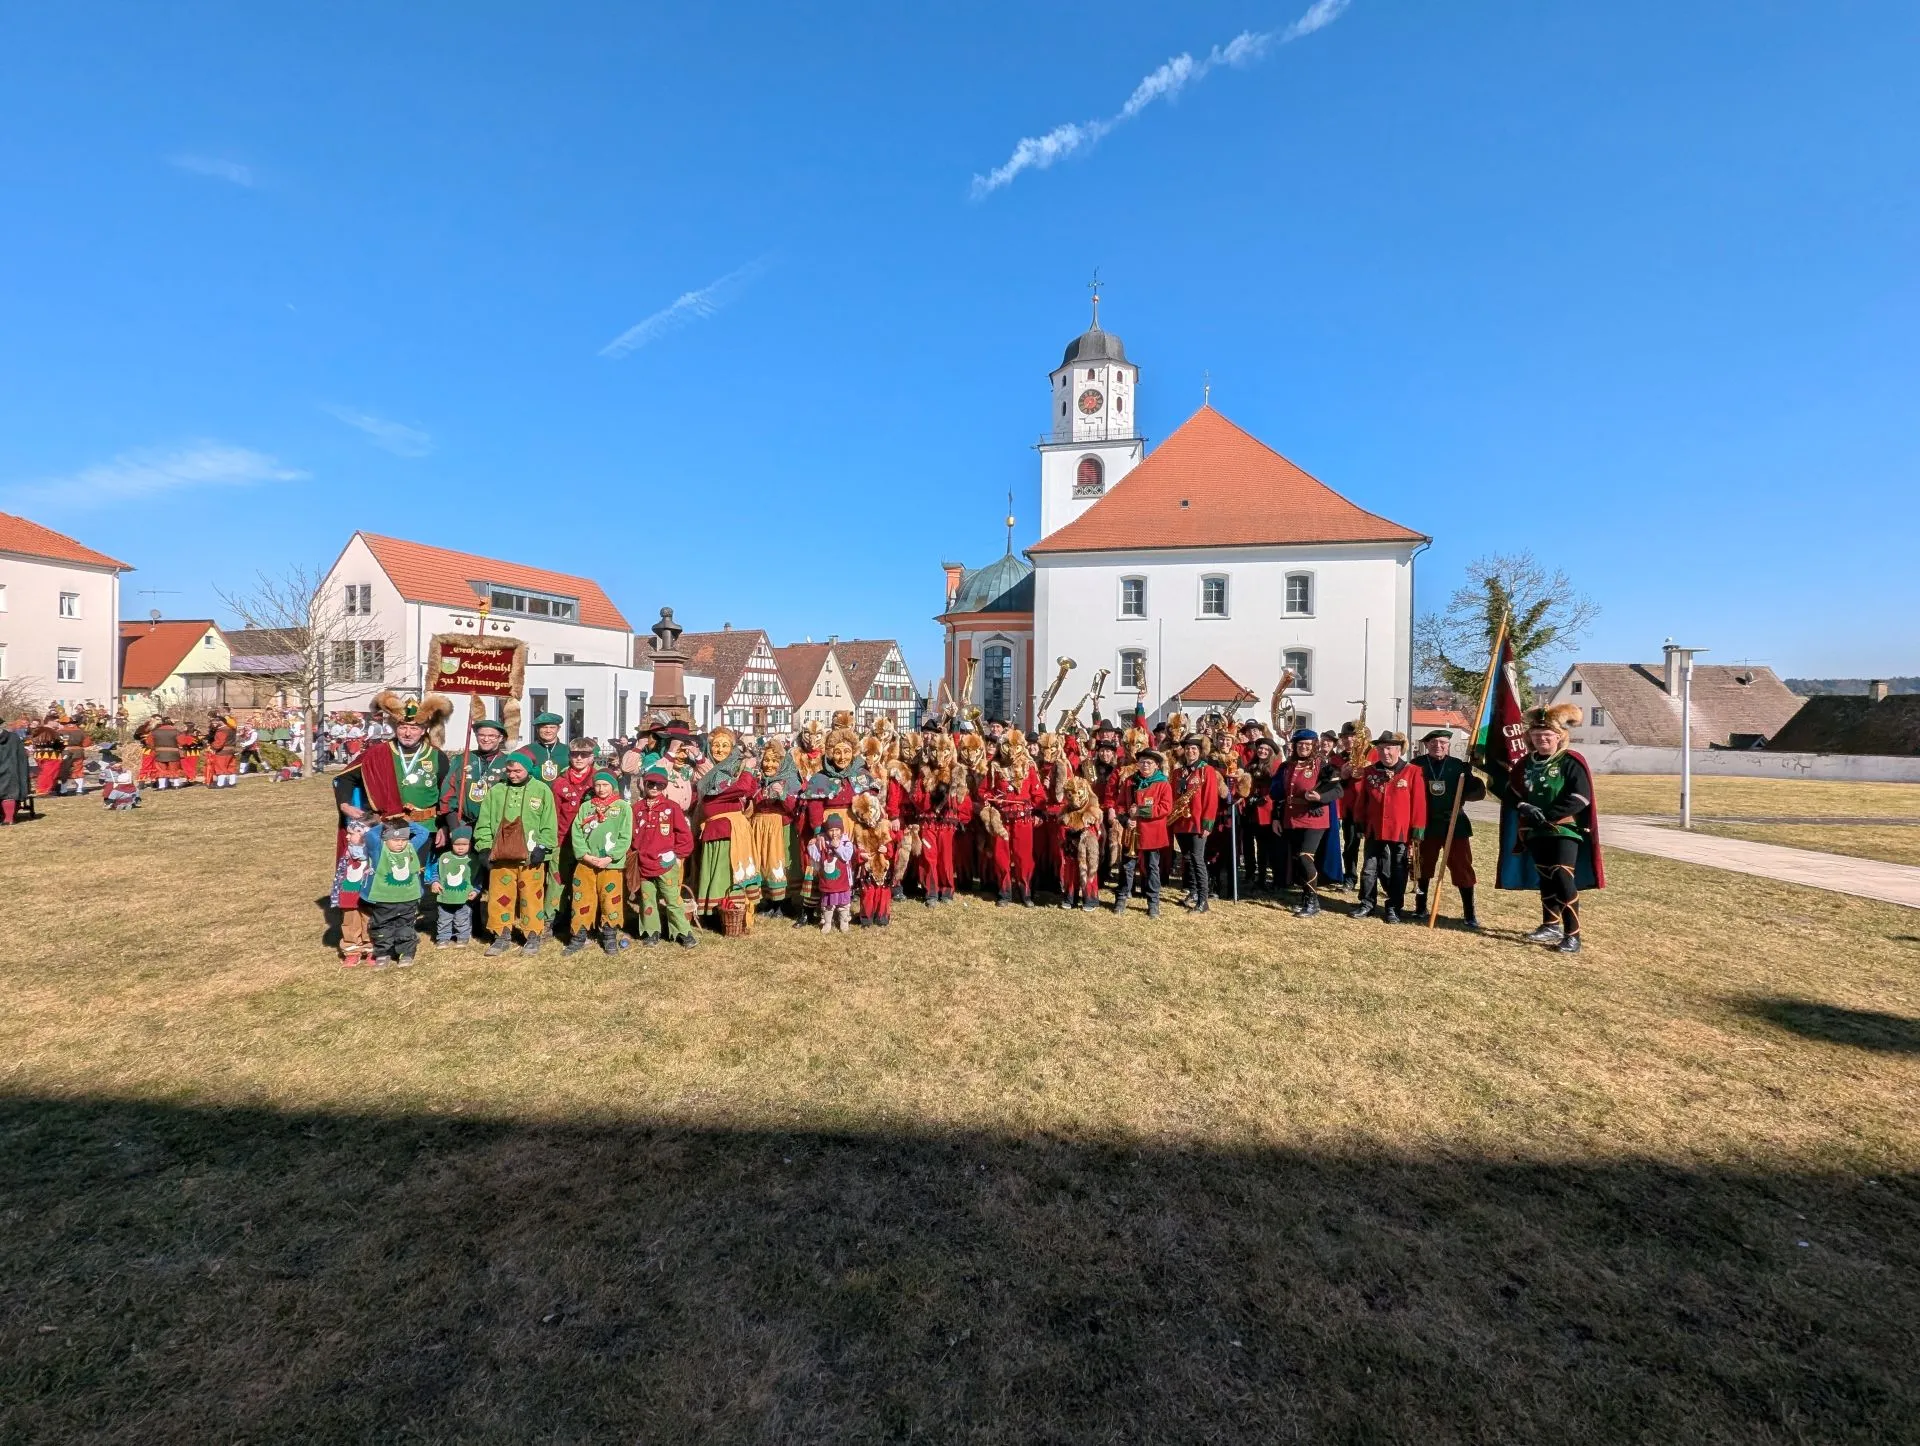
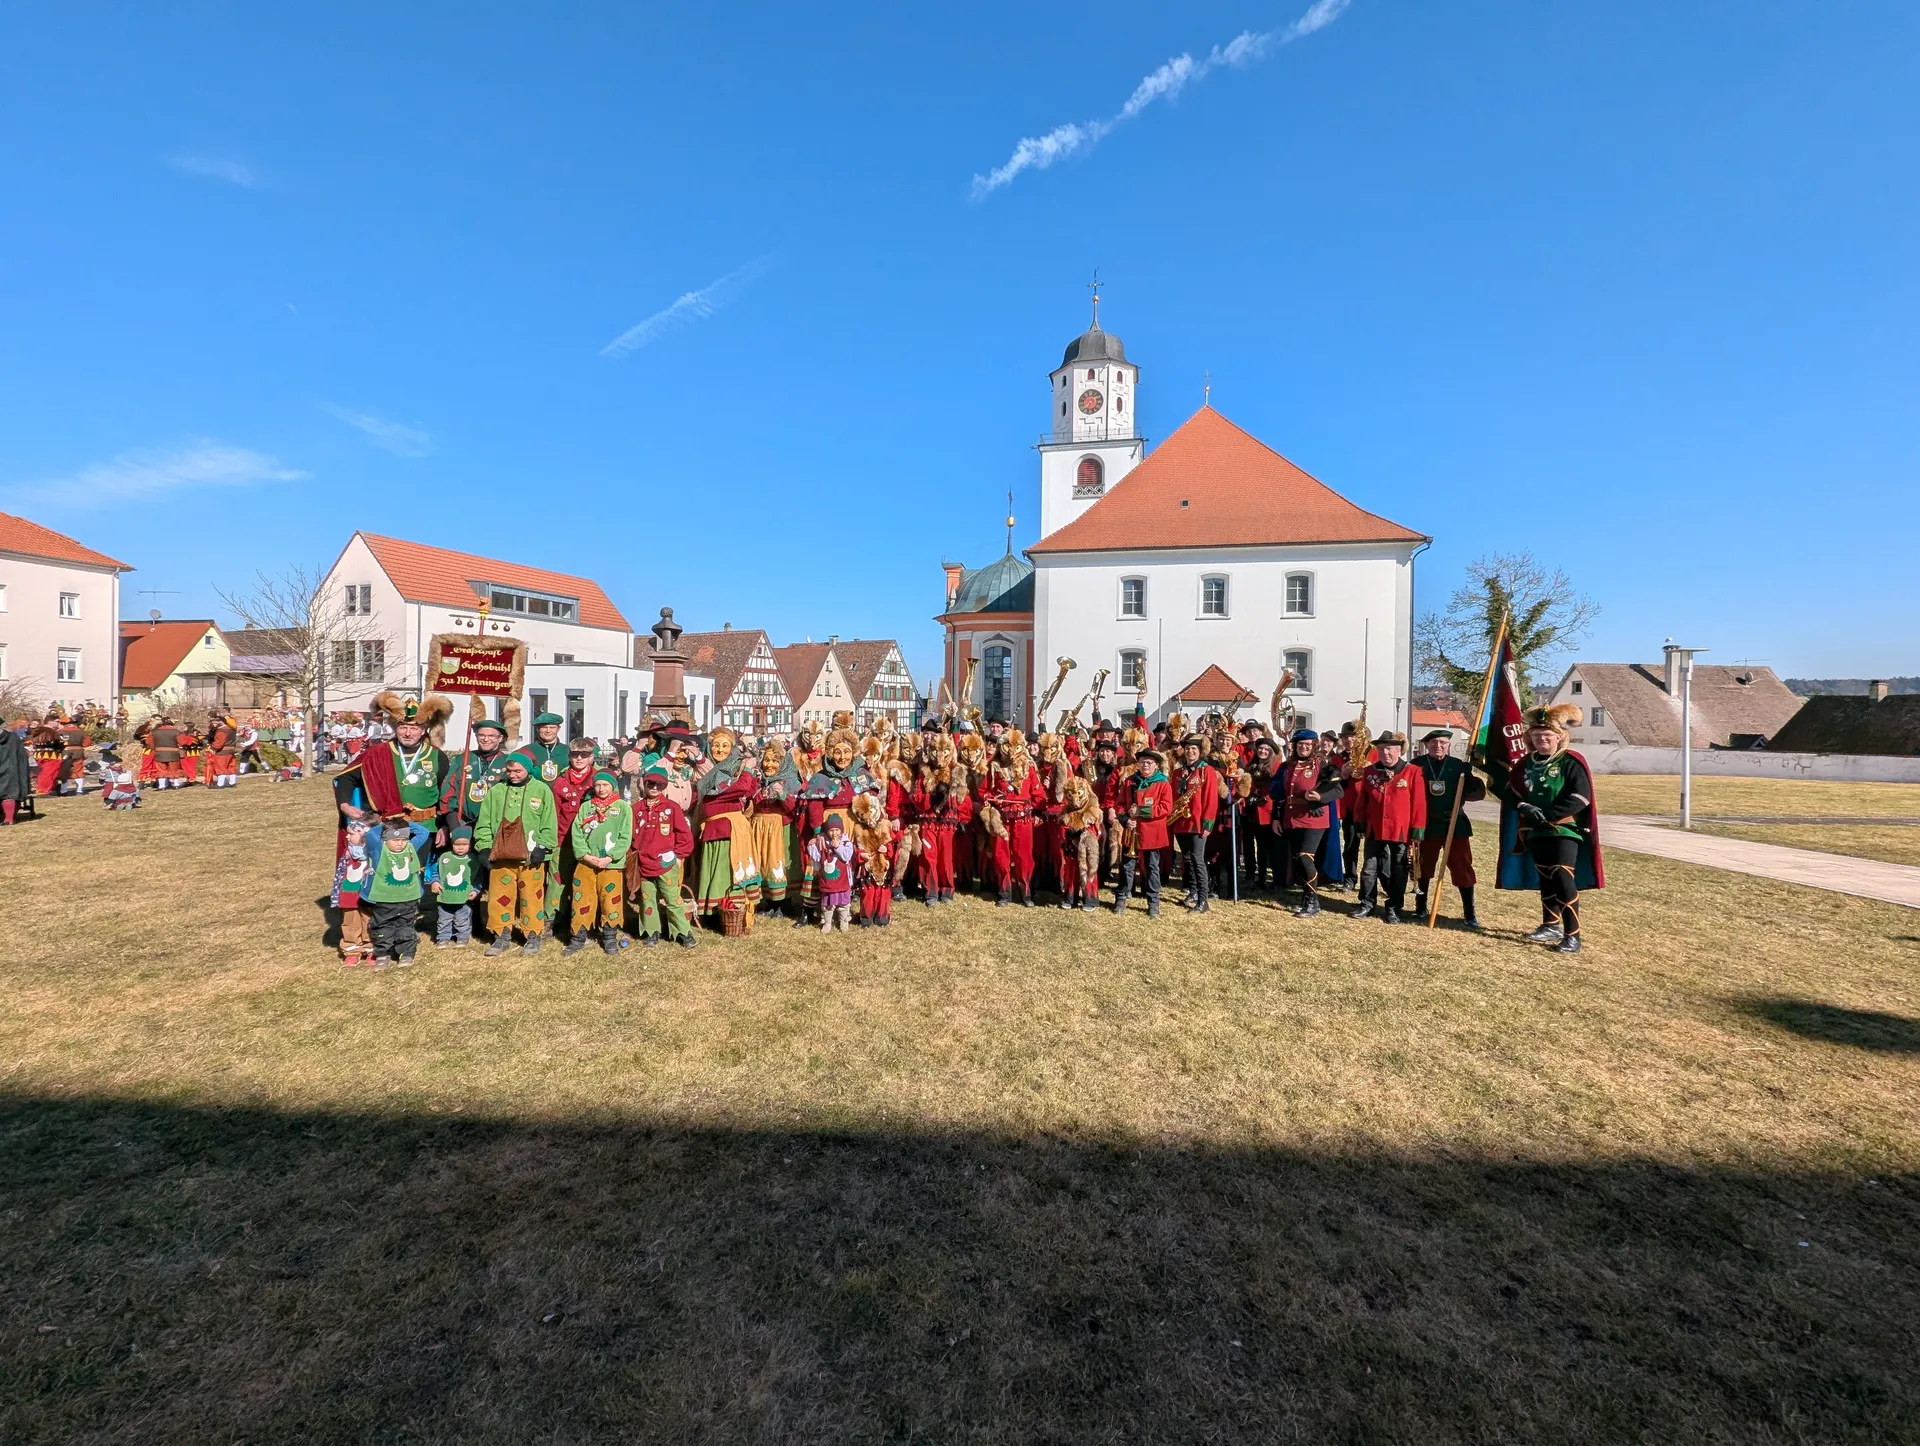
feat: add new WebP assets for improved performance and update image references in components

diff --git a/src/sections/HomeSection.jsx b/src/sections/HomeSection.jsx
@@ -3,6 +3,7 @@ import { FileText, Calendar, Users, ChevronRight, Award, Shield, Bell, MapPin } 
 import Countdown from '../components/Countdown';
 import { termine } from '../data/termineData';
 import heroBg from '../assets/Gesamt.webp';
+import heroMobile from '../assets/Gesamt-mobile.webp';
 
 const HomeSection = ({ setActiveTab }) => {
   // Prüfen, ob heute ein Termin ist
@@ -24,6 +25,8 @@ const HomeSection = ({ setActiveTab }) => {
       {/* Hintergrundbild - Als Image Tag für besseres LCP/Preloading */}
       <img
         src={heroBg}
+        srcSet={`${heroMobile} 800w, ${heroBg} 1920w`}
+        sizes="(max-width: 768px) 100vw, 100vw"
         alt="Zunftrat der Fuchszunft Menningen"
         fetchPriority="high"
         loading="eager"
@@ -127,7 +130,7 @@ const HomeSection = ({ setActiveTab }) => {
                 {/* Kulturerbe */}
                 <div className="flex flex-col-reverse md:flex-row items-center gap-6 max-w-2xl text-center md:text-left">
                     <a href="https://www.unesco.de/staette/schwaebisch-alemannische-fastnacht/" target="_blank" rel="noopener noreferrer" className="block w-72 md:w-80 lg:w-96 hover:opacity-80 transition-opacity flex-shrink-0" title="Zum UNESCO-Eintrag">
-                        <img src="/kulturerbe-logo.png" alt="Immaterielles Kulturerbe - Schwäbisch-Alemannische Fasnet" className="w-full h-auto object-contain rounded-xl" />
+                        <img src="/kulturerbe-logo.webp" alt="Immaterielles Kulturerbe - Schwäbisch-Alemannische Fasnet" className="w-full h-auto object-contain rounded-xl" />
                     </a>
                     <div>
                         <h3 className="font-bold text-stone-100 uppercase text-xs tracking-wider mb-1">Immaterielles Kulturerbe</h3>

diff --git a/src/components/Navigation.jsx b/src/components/Navigation.jsx
@@ -1,6 +1,6 @@
 import React from 'react';
 import { Menu, X, Home, FileText, Calendar, Users, BookOpen, House, Mail, Sun, Moon, Image as ImageIcon, ChevronDown } from 'lucide-react';
-import wappenImg from '../assets/FZ Wappen digital_klein.png';
+import wappenImg from '../assets/FZ Wappen digital_klein.webp';
 
 const Navigation = ({ activeTab, setActiveTab, isMenuOpen, setIsMenuOpen, darkMode, toggleDarkMode }) => {
   const navItems = [

diff --git a/src/App.jsx b/src/App.jsx
@@ -156,7 +156,7 @@ const App = () => {
 
       // 2. Bilder vorladen (damit sie beim Klick sofort da sind)
       const imagesToPreload = [
-        heroBg,       // Sollte schon da sein, aber sicher ist sicher
+        // heroBg entfernt - wird nativ geladen
         fuechseGif,   // Für Figuren-Seite
         zunftstubeImg // Für Zunftstube-Seite
       ];
